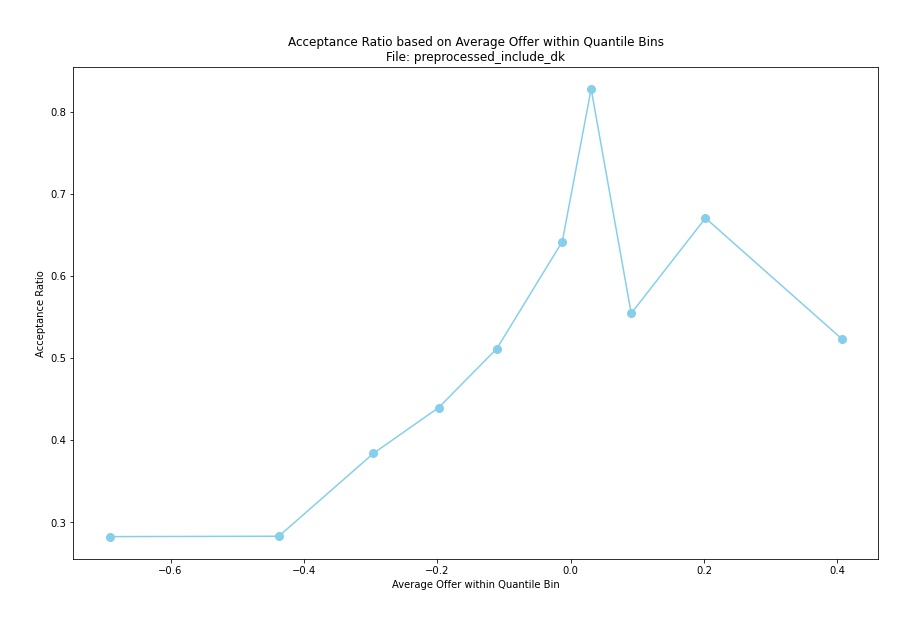
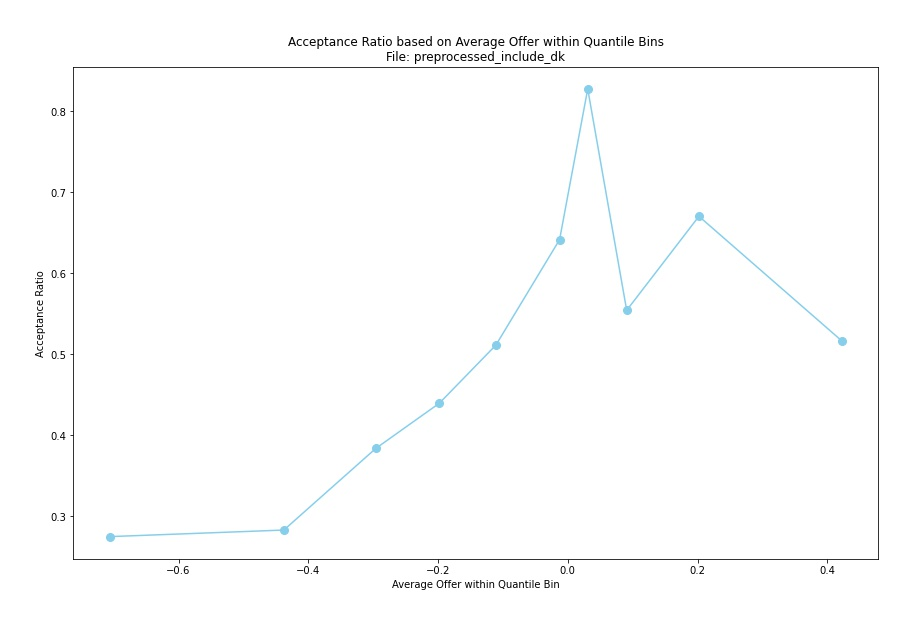
minor fix

diff --git a/NJUI/data_visualization.py b/NJUI/data_visualization.py
@@ -64,7 +64,7 @@ def save_line_graph(grouped_data, filename_prefix, result_folder):
 # Generate quantile bins
 def group_data_quantile_bins(filtered_df):
     # Calculate quantiles for binning
-    quantiles = [-0.1+ i * 0.1 for i in range(1, 11)]  # 10 quantiles from 10th to 100th percentile
+    quantiles = [0.0, 0.1, 0.2, 0.3, 0.4, 0.5, 0.6, 0.7, 0.8, 0.9, 1.0]  # 10 quantiles from 5th to 100th percentile
 
     # Create quantile bins based on wage_difference
     bins = filtered_df['wage_difference'].quantile(quantiles)
